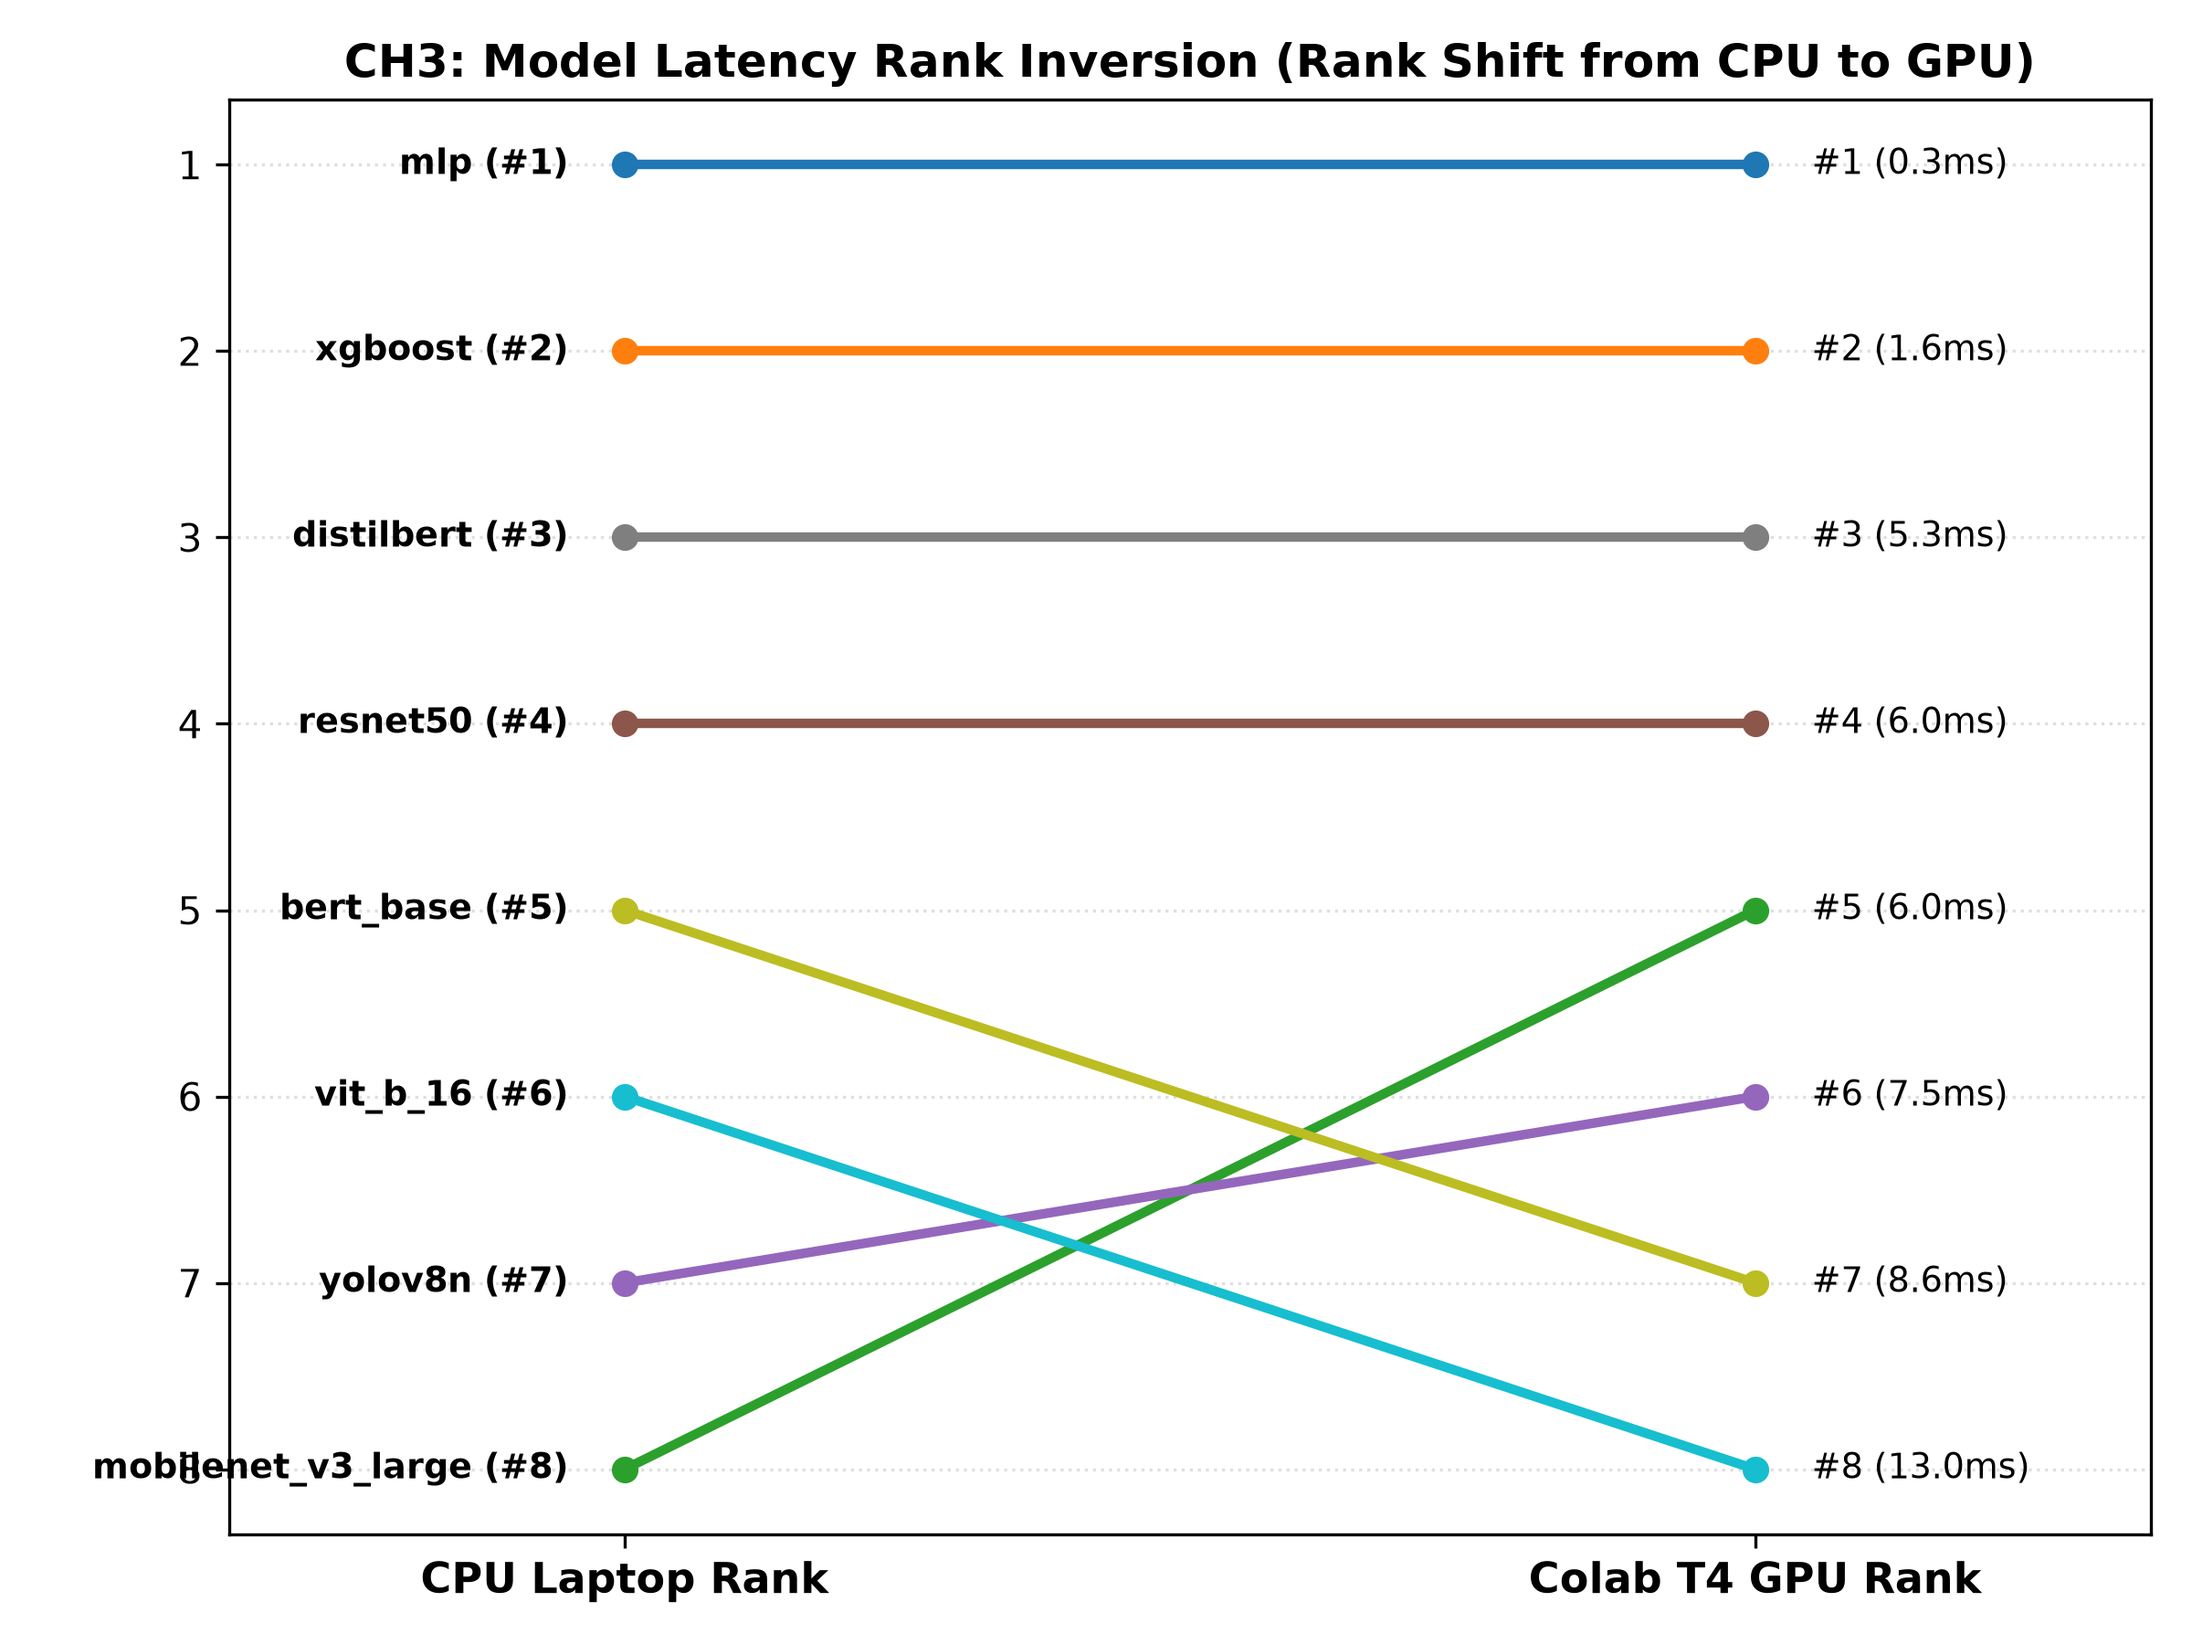
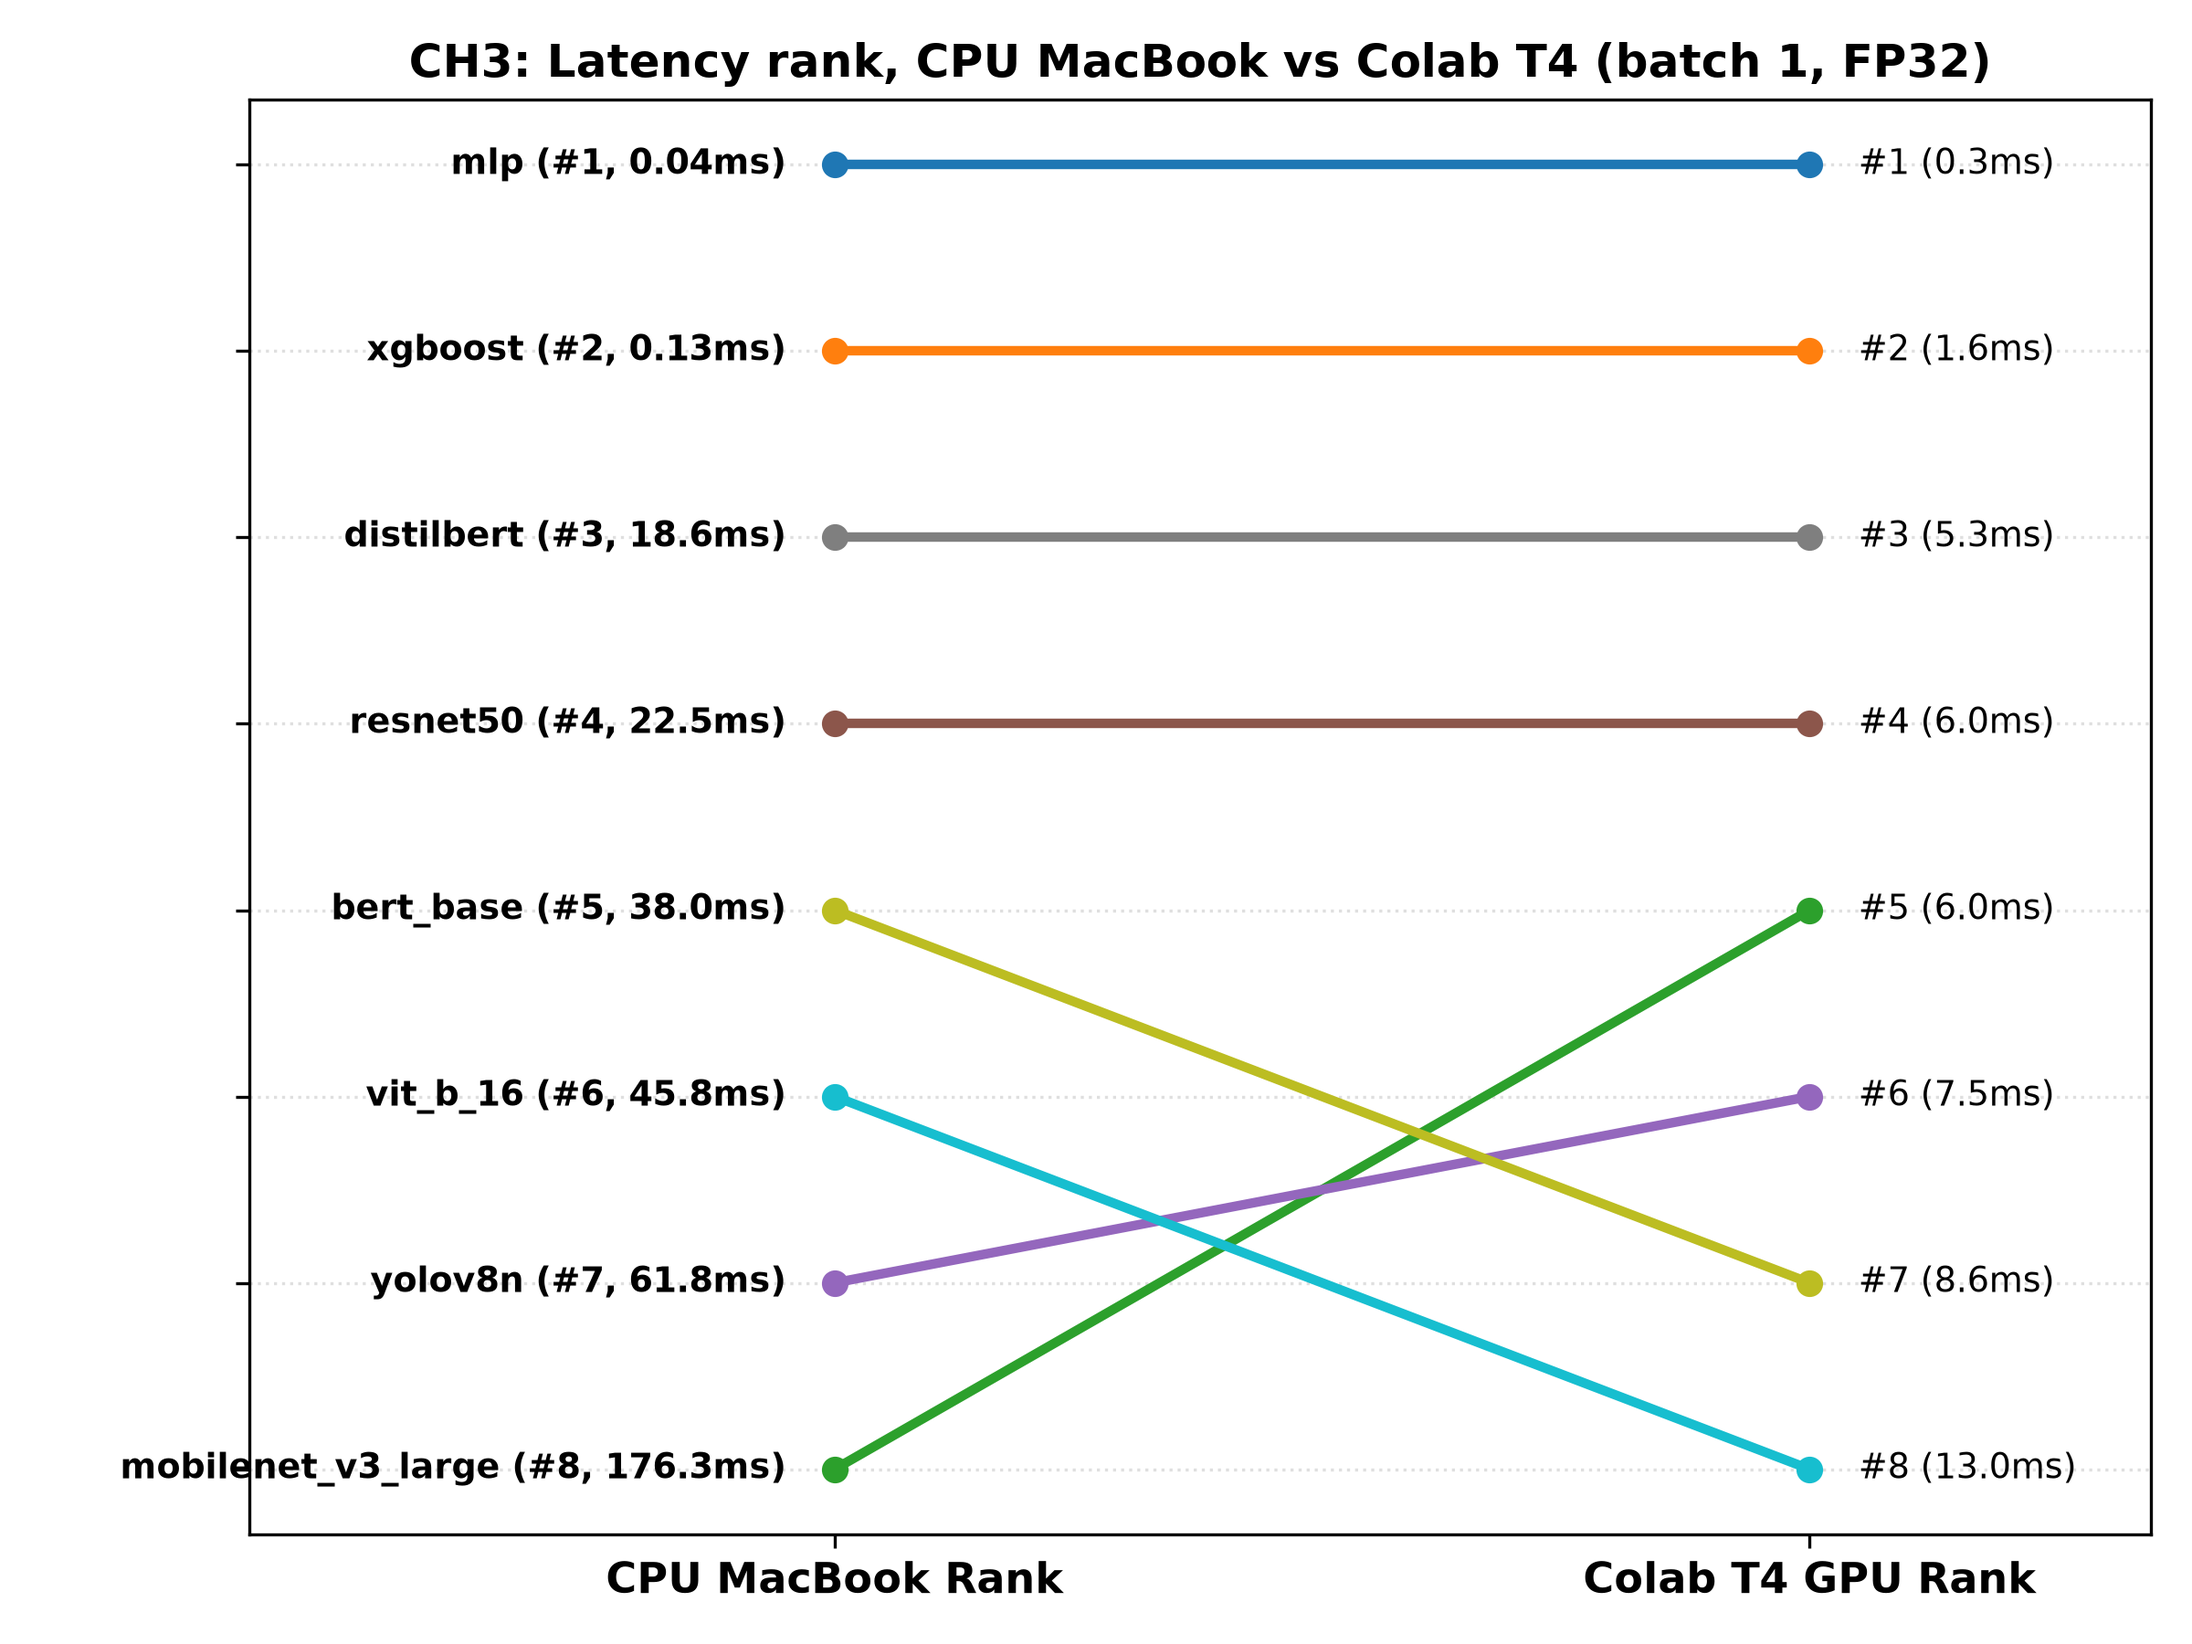
feat: push

diff --git a/experiments/tv3_dataloader_figure.py b/experiments/tv3_dataloader_figure.py
@@ -1,0 +1,80 @@
+"""
+tv3_dataloader_figure.py — CH5 (2/2): nạp dữ liệu có làm GPU phải chờ?
+=======================================================================
+Đọc results/colab_t4/{model}/TN6/bs32_fp32_w{W}/dataloader_summary.json (scripts/run_tn6_dataloader.py)
+và vẽ docs/tv3/figures/fig_ch5_dataloader_workers.png: thời gian một bước huấn luyện tách
+data_load / forward / backward / optimizer theo num_workers, kèm % chờ dữ liệu và ảnh/giây.
+
+Chạy:
+    python experiments/tv3_dataloader_figure.py
+"""
+
+from __future__ import annotations
+
+import json
+import os
+from pathlib import Path
+
+os.environ.setdefault("MPLCONFIGDIR", "/tmp/matplotlib")
+
+import matplotlib
+matplotlib.use("Agg")
+import matplotlib.pyplot as plt
+import numpy as np
+
+PROJECT_ROOT = Path(__file__).resolve().parent.parent
+RESULTS = PROJECT_ROOT / "results" / "colab_t4"
+OUT_PATH = PROJECT_ROOT / "docs" / "tv3" / "figures" / "fig_ch5_dataloader_workers.png"
+
+SURFACE, INK, INK_2, GRID, AXIS = "#fcfcfb", "#0b0b0b", "#52514e", "#e1e0d9", "#c3c2b7"
+PHASES = [("data_load", "Chờ dữ liệu", "#c3c2b7"), ("forward", "Forward", "#2a78d6"),
+          ("backward", "Backward", "#eb6834"), ("optimizer", "Optimizer", "#1baf7a")]
+MODELS = [("mobilenet_v3_large", "MobileNetV3-L"), ("resnet50", "ResNet-50")]
+WORKERS = [0, 2, 4]
+
+
+def _load(model: str, workers: int) -> dict:
+    path = RESULTS / model / "TN6" / f"bs32_fp32_w{workers}" / "dataloader_summary.json"
+    with open(path, encoding="utf-8") as f:
+        return json.load(f)
+
+
+def main() -> None:
+    plt.rcParams.update({
+        "figure.facecolor": SURFACE, "axes.facecolor": SURFACE, "savefig.facecolor": SURFACE,
+        "font.family": "DejaVu Sans", "font.size": 11, "text.color": INK, "axes.labelcolor": INK_2,
+        "axes.edgecolor": AXIS, "axes.grid": True, "grid.color": GRID, "axes.axisbelow": True,
+        "axes.spines.top": False, "axes.spines.right": False, "legend.frameon": False,
+        "axes.titleweight": "bold", "axes.titlelocation": "left",
+    })
+    fig, axes = plt.subplots(1, 2, figsize=(12, 5.2), sharey=False)
+    for ax, (model, label) in zip(axes, MODELS):
+        runs = [_load(model, w) for w in WORKERS]
+        x = np.arange(len(WORKERS))
+        bottom = np.zeros(len(WORKERS))
+        for key, name, color in PHASES:
+            vals = np.array([r["median_ms"][key] for r in runs])
+            ax.bar(x, vals, 0.55, bottom=bottom, color=color, label=name)
+            bottom += vals
+        top = bottom.max()
+        for i, r in enumerate(runs):
+            ax.text(i, bottom[i] + top * 0.02,
+                    f"chờ {r['data_load_pct']:.1f}%\n{r['images_per_s']:.0f} ảnh/s",
+                    ha="center", va="bottom", fontsize=10, fontweight="bold")
+        ax.set_xticks(x)
+        ax.set_xticklabels([f"num_workers={w}" for w in WORKERS])
+        ax.set_ylim(0, top * 1.22)
+        ax.set_ylabel("Thời gian một bước, trung vị (ms)")
+        ax.set_title(f"{label} (batch 32)")
+    axes[0].legend(loc="upper right", ncol=2)
+    fig.suptitle("CH5: GPU chờ dữ liệu bao lâu? DataLoader thật trên Colab T4, 2 vCPU",
+                 fontsize=13, fontweight="bold", x=0.01, ha="left")
+    fig.tight_layout()
+    OUT_PATH.parent.mkdir(parents=True, exist_ok=True)
+    fig.savefig(OUT_PATH, dpi=200, bbox_inches="tight")
+    plt.close(fig)
+    print(f"[OK] {OUT_PATH.relative_to(PROJECT_ROOT)}")
+
+
+if __name__ == "__main__":
+    main()

diff --git a/experiments/tv2_analysis.py b/experiments/tv2_analysis.py
@@ -66,7 +66,7 @@ def plot_ch3_speedup(cpu_data: Dict[str, float], gpu_data: Dict[str, float], out
     plt.figure(figsize=(10, 5))
     bars = plt.bar(models, speedups, color="#2b5c8f", edgecolor="#1a365d", width=0.55)
     plt.axhline(1.0, color="#e53e3e", linestyle="--", linewidth=1.2, label="Parity (1.0x)")
-    plt.title("CH3: Hardware Speedup Factor (CPU Laptop vs Colab Tesla T4, Batch=1)", fontsize=12, fontweight="bold")
+    plt.title("CH3: Hardware Speedup Factor (CPU MacBook vs Colab Tesla T4, Batch=1)", fontsize=12, fontweight="bold")
     plt.ylabel("Speedup Multiplier (x)", fontsize=11)
     plt.xticks(rotation=25, ha="right", fontsize=10)
     plt.grid(axis="y", linestyle=":", alpha=0.6)
@@ -101,14 +101,14 @@ def plot_ch3_rank_shift(cpu_data: Dict[str, float], gpu_data: Dict[str, float], 
         r_cpu = cpu_ranks[m]
         r_gpu = gpu_ranks[m]
         plt.plot([0, 1], [r_cpu, r_gpu], marker="o", linewidth=2.5, color=colors[i], label=f"{m} ({r_cpu} -> {r_gpu})")
-        plt.text(-0.05, r_cpu, f"{m} (#{r_cpu})", ha="right", va="center", fontsize=9, fontweight="bold")
+        plt.text(-0.05, r_cpu, (f"{m} (#{r_cpu}, {cpu_data[m]:.2f}ms)" if cpu_data[m] < 1 else f"{m} (#{r_cpu}, {cpu_data[m]:.1f}ms)"), ha="right", va="center", fontsize=9, fontweight="bold")
         plt.text(1.05, r_gpu, f"#{r_gpu} ({gpu_data[m]:.1f}ms)", ha="left", va="center", fontsize=9)
 
-    plt.xticks([0, 1], ["CPU Laptop Rank", "Colab T4 GPU Rank"], fontsize=11, fontweight="bold")
-    plt.yticks(range(1, len(models) + 1), range(1, len(models) + 1))
+    plt.xticks([0, 1], ["CPU MacBook Rank", "Colab T4 GPU Rank"], fontsize=11, fontweight="bold")
+    plt.yticks(range(1, len(models) + 1), [])
     plt.gca().invert_yaxis()
-    plt.title("CH3: Model Latency Rank Inversion (Rank Shift from CPU to GPU)", fontsize=12, fontweight="bold")
-    plt.xlim(-0.35, 1.35)
+    plt.title("CH3: Latency rank, CPU MacBook vs Colab T4 (batch 1, FP32)", fontsize=12, fontweight="bold")
+    plt.xlim(-0.6, 1.35)
     plt.grid(axis="y", linestyle=":", alpha=0.4)
     plt.tight_layout()
     _safe_savefig(out_path)
@@ -137,7 +137,7 @@ def plot_ch4_batch_scaling(out_path: Path) -> None:
         if any(fps > 0 for fps in t4_fps):
             plt.plot(batches, t4_fps, marker=markers[i], linewidth=2.2, label=f"{m} (Colab T4)")
         if any(fps > 0 for fps in cpu_fps):
-            plt.plot(batches, cpu_fps, marker=markers[i], linestyle="--", linewidth=1.5, alpha=0.7, label=f"{m} (CPU Laptop)")
+            plt.plot(batches, cpu_fps, marker=markers[i], linestyle="--", linewidth=1.5, alpha=0.7, label=f"{m} (CPU MacBook)")
 
     plt.title("CH4: Throughput Scaling vs Batch Size (Finding Hardware Saturation Points)", fontsize=12, fontweight="bold")
     plt.xlabel("Batch Size", fontsize=11)
